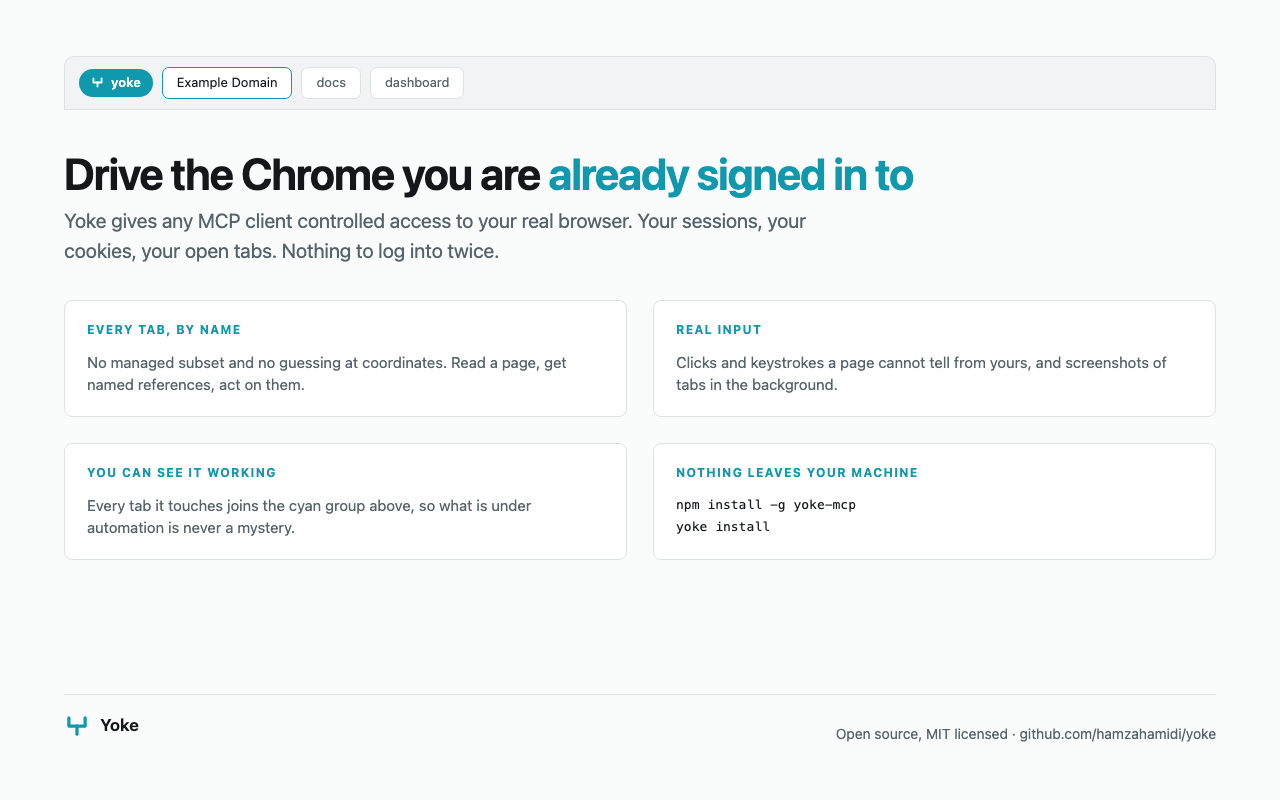
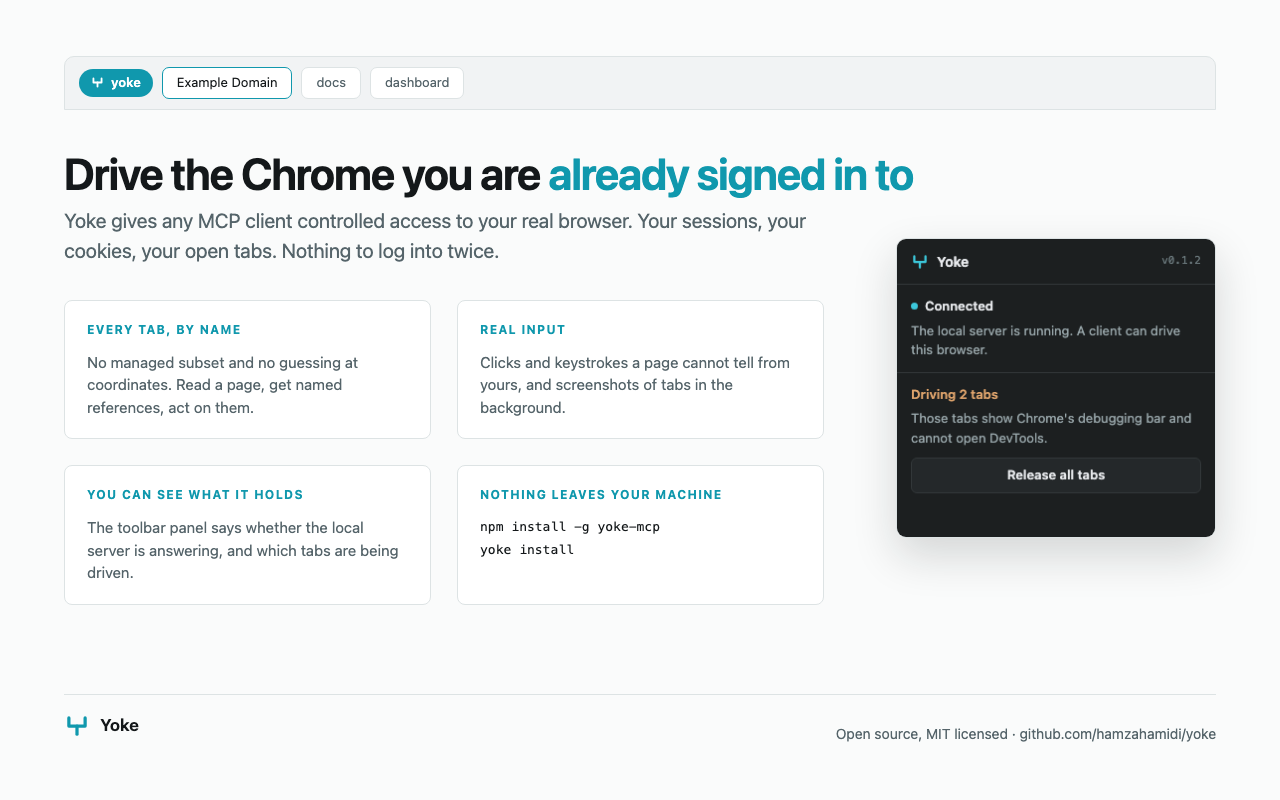
build: render the real popup into the store screenshot
The screenshot advertised a feature with an illustration of it. It now embeds the
popup rendered from the built extension, with only chrome.runtime.sendMessage
stubbed, so the picture in the listing is the panel and cannot drift from it.

That makes the script a test as well. A popup that throws stays on its initial
"Checking" state, so the render asserts it reached "Connected" and fails
otherwise. It is the only check on popup.js that needs no browser, and it caught
nothing today only because it was written after the panel already worked.

Three failures on the way here, each of which looked like a hung renderer and was
not.

A module cannot be fetched from a file:// origin, so opening popup.html as a file
produced the unpopulated page with no error anywhere: not in window.onerror, not
in the console, not on stderr. The assets are served over http now.

execFileSync blocks the event loop, so the http server this script starts could
never answer the request Chrome was making. Chrome waited for a page that would
never arrive. Chrome is spawned asynchronously now, with a 60 second cap so a
future deadlock fails instead of hanging.

And the popup's polling timer never lets --virtual-time-budget finish, since
virtual time advances instantly and setInterval reschedules forever. The preview
copy drops that line, and asserts it is gone: the first attempt used a regex that
could not match across the callback's own semicolon, silently changed nothing,
[…]

Changed region(s): [[0.0625, 0.2812, 0.9688, 0.7188], [0.0625, 0.4688, 0.2812, 0.5312]]

diff --git a/docs/store/screenshot.html b/docs/store/screenshot.html
@@ -23,6 +23,10 @@
              margin-bottom:12px; font-weight:700; }
   .card p { font-size:15px; color:var(--muted); }
   code { font:13px/1.75 ui-monospace,Menlo,monospace; color:var(--ink); display:block; white-space:pre; }
+  .popup { position:absolute; right:64px; top:238px; width:320px; border-radius:10px;
+           border:1px solid var(--line); box-shadow:0 18px 44px rgba(20,24,26,.16); }
+  body { position:relative; }
+  .cols { max-width:760px; }
   .foot { margin-top:auto; display:flex; justify-content:space-between; align-items:baseline;
           border-top:1px solid var(--line); padding-top:18px; font-size:14px; color:var(--muted); }
   .mark { display:flex; align-items:center; gap:10px; font-weight:640; color:var(--ink); font-size:17px; }
@@ -53,8 +57,8 @@
       <p>Clicks and keystrokes a page cannot tell from yours, and screenshots of tabs in the background.</p>
     </div>
     <div class="card">
-      <h2>You can see it working</h2>
-      <p>Every tab it touches joins the cyan group above, so what is under automation is never a mystery.</p>
+      <h2>You can see what it holds</h2>
+      <p>The toolbar panel says whether the local server is answering, and which tabs are being driven.</p>
     </div>
     <div class="card">
       <h2>Nothing leaves your machine</h2>
@@ -62,6 +66,8 @@
 yoke install</code></p>
     </div>
   </div>
+
+  <img class="popup" src="popup.png" alt="The Yoke toolbar panel, showing a connected server and two tabs being driven">
 
   <div class="foot">
     <span class="mark">
